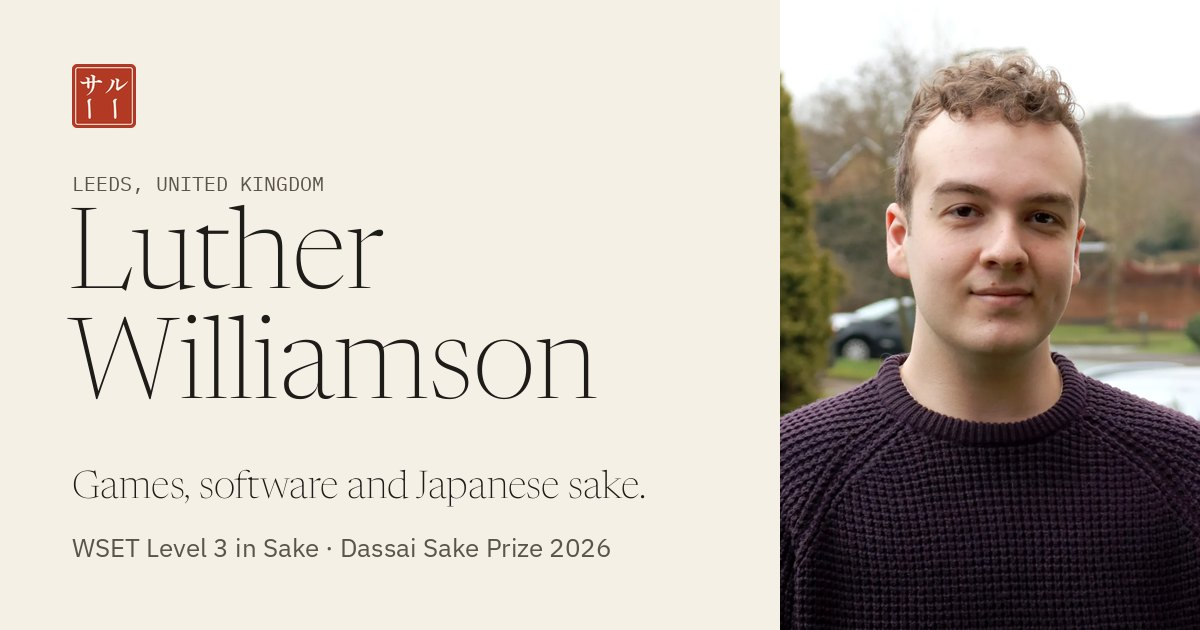
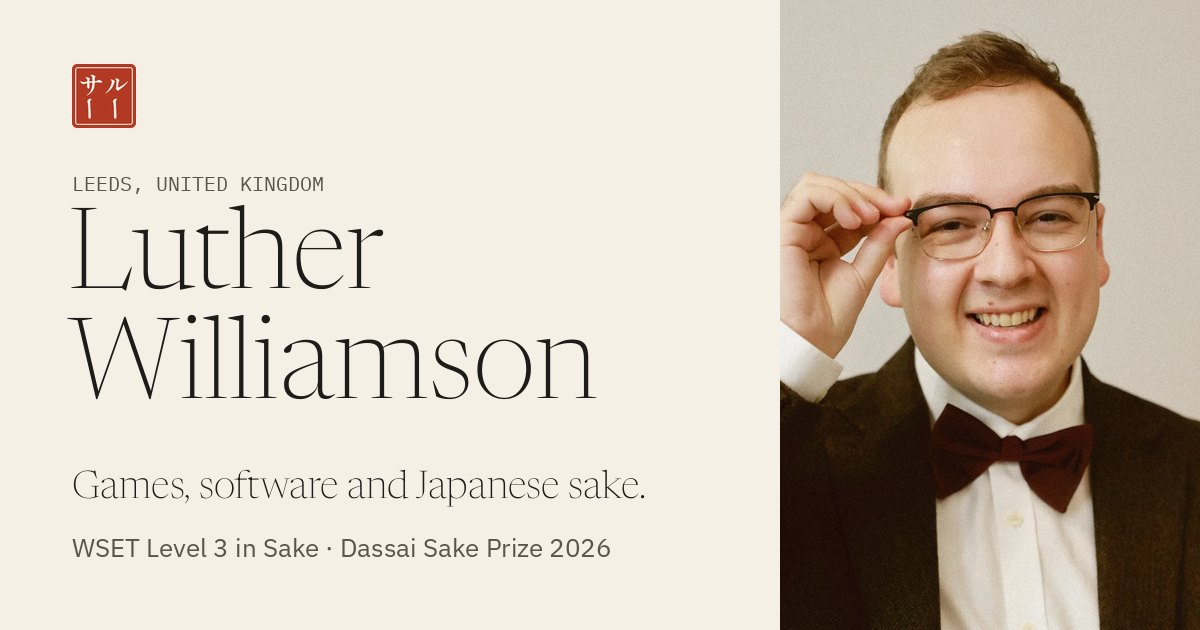
New portrait, homepage rhythm, sticky sake contents bar, dark games header
- New hero portrait; the earlier portrait moves to the About section.
- Homepage order is now sake band, About, games band, then a light
  contact section, so dark and light sections alternate.
- Sake page: the "on this page" bar sticks under the header, marks the
  section in view, and scrolls sideways on phones.
- Games page: header joins the indigo theme; own link-preview image.
- Home link-preview image regenerated with the new portrait.

Changed region(s): [[0.6475, 0.0, 1.0, 1.0]]

diff --git a/index.html b/index.html
@@ -95,7 +95,7 @@
             <img src="/assets/img/home/portrait-800.webp"
                  srcset="/assets/img/home/portrait-480.webp 480w, /assets/img/home/portrait-800.webp 800w, /assets/img/home/portrait-1200.webp 1200w"
                  sizes="(min-width: 900px) 28vw, (min-width: 480px) 22rem, 88vw"
-                 width="800" height="999" alt="Portrait of Luther Williamson outdoors, wearing a dark knitted jumper." fetchpriority="high">
+                 width="800" height="1000" alt="Portrait of Luther Williamson smiling and adjusting his glasses, wearing a tweed jacket and a burgundy bow tie." fetchpriority="high">
           </div>
         </div>
         <a class="hero__inset mat" href="/sake/" aria-label="Japanese sake section">
@@ -148,33 +148,6 @@
       </div>
     </section>
 
-    <!-- Games feature -->
-    <section class="games games-teaser" id="games" aria-labelledby="games-title">
-      <div class="wrap grid">
-        <div class="teaser__text">
-          <p class="sec-num reveal"><span>Games</span></p>
-          <h2 id="games-title" class="reveal">Games, 3D and software.</h2>
-          <p class="lede">Since late 2023 I’ve worked independently, as an indie game developer and a freelance 3D modeller for product design.</p>
-          <div class="feature__links">
-            <a class="btn btn--koji" href="/games/">See my games <span class="arrow" aria-hidden="true">→</span></a>
-          </div>
-          <ul class="feature__index" aria-label="On the games page">
-            <li><a href="/games/#death-with-dice"><span>Death with Dice</span><span class="mono">Upcoming</span></a></li>
-            <li><a href="/games/#hive-mind"><span>Hive Mind</span><span class="mono">2027</span></a></li>
-            <li><a href="/games/#offbeat"><span>Offbeat</span><span class="mono">Game jam</span></a></li>
-            <li><a href="/games/#youtube"><span>YouTube</span><span class="mono">Tutorials</span></a></li>
-          </ul>
-        </div>
-        <a class="teaser__media mat" href="/games/" aria-label="Games page">
-          <span class="ratio ratio--16x9">
-            <img src="/assets/img/work/polygon-dungeon-800.webp"
-                 srcset="/assets/img/work/polygon-dungeon-800.webp 800w, /assets/img/work/polygon-dungeon-1600.webp 1600w"
-                 sizes="(min-width: 900px) 50vw, 92vw" width="1600" height="900" loading="lazy" alt="">
-          </span>
-        </a>
-      </div>
-    </section>
-
     <!-- About -->
     <section class="section wrap" id="about" aria-labelledby="about-title">
       <div class="grid">
@@ -187,6 +160,16 @@
             <p>Alongside that, Japanese sake has become a serious pursuit. I hold the WSET Level 3 Award in Sake, won the Dassai Sake Prize, and have taught sake classes and led tastings in the UK. More on the <a href="/sake/">sake page</a>.</p>
           </div>
           <p class="about__cv small muted"><a class="link" href="/assets/docs/CV%20-%20Luther%20Williamson.docx" download>Download CV</a> (Word document, last updated 2024)</p>
+          <figure class="about__photo">
+            <div class="mat">
+              <div class="ratio ratio--4x5">
+                <img src="/assets/img/home/portrait-about-480.webp"
+                     srcset="/assets/img/home/portrait-about-480.webp 480w, /assets/img/home/portrait-about-800.webp 800w"
+                     sizes="(min-width: 900px) 18vw, 14rem" width="800" height="999" loading="lazy"
+                     alt="Luther Williamson outdoors, wearing a dark knitted jumper.">
+              </div>
+            </div>
+          </figure>
         </div>
 
         <div class="about__timeline">
@@ -229,8 +212,35 @@
       </div>
     </section>
 
+    <!-- Games feature -->
+    <section class="games games-teaser" id="games" aria-labelledby="games-title">
+      <div class="wrap grid">
+        <div class="teaser__text">
+          <p class="sec-num reveal"><span>Games</span></p>
+          <h2 id="games-title" class="reveal">Games, 3D and software.</h2>
+          <p class="lede">Since late 2023 I’ve worked independently, as an indie game developer and a freelance 3D modeller for product design.</p>
+          <div class="feature__links">
+            <a class="btn btn--koji" href="/games/">See my games <span class="arrow" aria-hidden="true">→</span></a>
+          </div>
+          <ul class="feature__index" aria-label="On the games page">
+            <li><a href="/games/#death-with-dice"><span>Death with Dice</span><span class="mono">Upcoming</span></a></li>
+            <li><a href="/games/#hive-mind"><span>Hive Mind</span><span class="mono">2027</span></a></li>
+            <li><a href="/games/#offbeat"><span>Offbeat</span><span class="mono">Game jam</span></a></li>
+            <li><a href="/games/#youtube"><span>YouTube</span><span class="mono">Tutorials</span></a></li>
+          </ul>
+        </div>
+        <a class="teaser__media mat" href="/games/" aria-label="Games page">
+          <span class="ratio ratio--16x9">
+            <img src="/assets/img/work/polygon-dungeon-800.webp"
+                 srcset="/assets/img/work/polygon-dungeon-800.webp 800w, /assets/img/work/polygon-dungeon-1600.webp 1600w"
+                 sizes="(min-width: 900px) 50vw, 92vw" width="1600" height="900" loading="lazy" alt="">
+          </span>
+        </a>
+      </div>
+    </section>
+
     <!-- Contact -->
-    <section class="contact" id="contact" aria-labelledby="contact-title">
+    <section class="contact contact--light" id="contact" aria-labelledby="contact-title">
       <div class="wrap grid">
         <div class="contact__head">
           <p class="sec-num reveal"><span>Contact</span></p>

diff --git a/assets/css/site.css b/assets/css/site.css
@@ -221,6 +221,24 @@ h1 em, h2 em, h3 em { font-style: italic; font-weight: 330; }
   .no-js .site-nav ul, html:not(.js) .site-nav ul { flex-direction: row; flex-wrap: wrap; gap: 1rem; }
 }
 
+/* Games page: the header joins the indigo theme */
+.page-games .site-header { background: rgba(24, 32, 45, .95); }
+@supports (backdrop-filter: blur(8px)) { .page-games .site-header { background: rgba(24, 32, 45, .84); } }
+.page-games .site-header.is-scrolled { border-bottom-color: rgba(245, 240, 230, .14); }
+.page-games .site-header:has(.site-nav.is-open) { background: #18202D; border-bottom-color: rgba(245, 240, 230, .14); }
+.page-games .brand__name, .page-games .site-nav a { color: var(--paper); }
+.page-games .site-nav a[aria-current] { color: var(--koji); }
+.page-games .site-nav a::before { background: var(--koji); }
+.page-games .site-nav .nav-contact { border-color: rgba(245, 240, 230, .7); }
+.page-games .site-nav .nav-contact:hover { background: var(--paper); color: var(--ink); }
+.page-games .nav-toggle { color: var(--paper); border-color: rgba(245, 240, 230, .7); }
+.page-games .site-nav li { border-top-color: rgba(245, 240, 230, .14); }
+.page-games :focus-visible { outline-color: var(--koji); }
+@media (max-width: 759px) {
+  .page-games .site-nav .nav-contact { border: 0; }
+  .page-games .site-nav .nav-contact:hover { background: none; color: var(--koji); }
+}
+
 /* 7. Buttons & links ------------------------------------------------------ */
 .btn {
   display: inline-flex; align-items: center; gap: .75rem;
@@ -524,6 +542,7 @@ figcaption .mono, .caption .mono { flex: none; color: var(--shu); font-size: .7r
 .about__text { grid-column: 1 / span 5; }
 .about__text .prose { margin-top: 1.75rem; }
 .about__cv { margin-top: 2rem; }
+.about__photo { margin: 2.5rem 0 0; max-width: 15rem; }
 .about__timeline { grid-column: 7 / span 6; }
 @media (max-width: 899px) { .about__timeline { margin-top: 3.5rem; } }
 .timeline + .timeline { margin-top: 3rem; }
@@ -551,14 +570,18 @@ figcaption .mono, .caption .mono { flex: none; color: var(--shu); font-size: .7r
   .sake-hero__figure .tate { display: none; }
 }
 
-.chapters { border-block: 1px solid var(--ink); }
-.chapters ol { display: flex; flex-wrap: wrap; list-style: none; padding: 0; margin: 0; }
-.chapters li { flex: 1 1 auto; }
-.chapters a { display: flex; gap: .7rem; align-items: baseline; padding: 1rem 1.25rem 1rem 0; text-decoration: none; font-size: .95rem; white-space: nowrap; }
-.chapters a .mono { color: var(--shu); font-size: .68rem; }
-.chapters a:hover { color: var(--shu); }
-@media (max-width: 759px) {
-  .chapters ol { display: grid; grid-template-columns: 1fr 1fr; }
+.chapters {
+  position: sticky; top: var(--header-h); z-index: 40;
+  border-block: 1px solid var(--ink); background: rgba(245, 240, 230, .96);
+}
+.chapters ol { display: flex; list-style: none; padding: 0; margin: 0; overflow-x: auto; scrollbar-width: none; }
+.chapters ol::-webkit-scrollbar { display: none; }
+.chapters li { flex: 1 0 auto; }
+.chapters a { position: relative; display: flex; align-items: baseline; padding: .85rem 1.25rem .85rem 0; text-decoration: none; font-size: .95rem; white-space: nowrap; }
+.chapters a:hover, .chapters a[aria-current] { color: var(--shu); }
+.chapters a::after { content: ""; position: absolute; left: 0; right: 1.25rem; bottom: -1px; height: 2px; background: var(--shu); transform: scaleX(0); transform-origin: left; transition: transform .25s ease; }
+.chapters a[aria-current]::after { transform: scaleX(1); }
+html:has(.chapters) { scroll-padding-top: calc(var(--header-h) + 4.25rem); }
   .chapters li { border-bottom: 1px solid var(--rule); }
   .chapters li:nth-last-child(-n+2) { border-bottom: 0; }
 }
@@ -706,6 +729,17 @@ figcaption .mono, .caption .mono { flex: none; color: var(--shu); font-size: .7r
 .contact__list .val { font-family: var(--serif); font-size: clamp(1.15rem, 2vw, 1.55rem); overflow-wrap: anywhere; }
 .contact__list a:hover .val { color: var(--shu-light); }
 @media (max-width: 479px) { .contact__list a { grid-template-columns: 1fr auto; } .contact__list .mono { grid-column: 1 / -1; } }
+
+/* Light variant (homepage, where it follows the dark games band) */
+.contact--light { background: var(--paper); color: var(--ink); }
+.contact--light h2 { color: var(--ink); }
+.contact--light .sec-num { color: var(--ink-soft); }
+.contact--light .sec-num span:first-child { color: var(--shu); }
+.contact--light .contact__head p { color: var(--ink-soft); }
+.contact--light .contact__list { border-top-color: var(--ink); }
+.contact--light .contact__list a { color: var(--ink); border-bottom-color: var(--rule); }
+.contact--light .contact__list .mono { color: var(--ink-soft); }
+.contact--light .contact__list a:hover .val { color: var(--shu); }
 
 .site-footer { background: var(--ai); color: #AEB6C2; border-top: 1px solid rgba(245,240,230,.15); }
 .site-footer__inner { display: flex; flex-wrap: wrap; justify-content: space-between; align-items: center; gap: 1rem 2rem; padding-block: 1.75rem; font-size: .85rem; }

diff --git a/assets/js/site.js b/assets/js/site.js
@@ -62,6 +62,36 @@
   window.addEventListener("hashchange", openTarget);
   openTarget();
 
+  // "On this page" bar: mark the section in view and keep its link visible
+  var bar = document.querySelector(".chapters ol");
+  if (bar) {
+    var spy = [];
+    Array.prototype.forEach.call(bar.querySelectorAll('a[href^="#"]'), function (a) {
+      var target = document.getElementById(a.getAttribute("href").slice(1));
+      if (target) spy.push({ link: a, target: target });
+    });
+    var active = null, ticking = false;
+    var update = function () {
+      ticking = false;
+      var line = window.innerHeight * 0.4, current = null;
+      spy.forEach(function (s) { if (s.target.getBoundingClientRect().top <= line) current = s; });
+      if (window.innerHeight + window.scrollY >= document.documentElement.scrollHeight - 2) current = spy[spy.length - 1];
+      if (current === active) return;
+      active = current;
+      spy.forEach(function (s) {
+        if (s === current) s.link.setAttribute("aria-current", "location");
+        else s.link.removeAttribute("aria-current");
+      });
+      if (current && bar.scrollWidth > bar.clientWidth) {
+        bar.scrollTo({ left: current.link.offsetLeft - bar.offsetLeft - 16, behavior: "smooth" });
+      }
+    };
+    var request = function () { if (!ticking) { ticking = true; requestAnimationFrame(update); } };
+    window.addEventListener("scroll", request, { passive: true });
+    window.addEventListener("resize", request);
+    update();
+  }
+
   // Enlarge images in a native <dialog>; links still open the image without JS
   var links = document.querySelectorAll("a[data-zoom]");
   if (links.length && typeof HTMLDialogElement === "function") {

diff --git a/games/index.html b/games/index.html
@@ -6,7 +6,7 @@
   <title>Games, 3D and software — Luther Williamson</title>
   <meta name="description" content="Games, 3D modelling and software by Luther Williamson, an indie game developer and freelance 3D modeller in Leeds: Polygon Dungeon, Hungry Bunny, Enchanted Forest and more.">
   <link rel="canonical" href="https://lutherwilliamson.co.uk/games/">
-  <meta name="theme-color" content="#F5F0E6">
+  <meta name="theme-color" content="#18202D">
   <meta name="author" content="Luther Williamson">
 
   <meta property="og:type" content="website">
@@ -14,10 +14,10 @@
   <meta property="og:title" content="Games, 3D and software — Luther Williamson">
   <meta property="og:description" content="Indie games, freelance 3D modelling for product design, and software engineering.">
   <meta property="og:url" content="https://lutherwilliamson.co.uk/games/">
-  <meta property="og:image" content="https://lutherwilliamson.co.uk/assets/img/og/home.jpg">
+  <meta property="og:image" content="https://lutherwilliamson.co.uk/assets/img/og/games.jpg">
   <meta property="og:image:width" content="1200">
   <meta property="og:image:height" content="630">
-  <meta property="og:image:alt" content="Luther Williamson — games, software and Japanese sake">
+  <meta property="og:image:alt" content="Games, 3D and software by Luther Williamson, with a screenshot of the rhythm game Offbeat">
   <meta property="og:locale" content="en_GB">
   <meta name="twitter:card" content="summary_large_image">
 

diff --git a/CREDITS.md b/CREDITS.md
@@ -32,7 +32,7 @@ The licence texts are in `assets/fonts/OFL-*.txt`.
 | `assets/img/brand/seal.svg`, `assets/favicon.svg`, `assets/favicon.ico`, `assets/apple-touch-icon.png` | Drawn for this site. The ルーサー glyph outlines come from Shippori Mincho B1 Bold (OFL 1.1, which allows embedding glyph outlines in artwork). | © Luther Williamson |
 | `assets/img/brand/rings.svg` | Drawn for this site | © Luther Williamson |
 | `assets/img/brand/lowpoly.svg` | Generated for this site (low-poly wireframe background for the Games section) | © Luther Williamson |
-| `assets/img/og/home.jpg`, `assets/img/og/sake.jpg` | Composed for this site from the photographs below and the fonts above | © Luther Williamson |
+| `assets/img/og/home.jpg`, `assets/img/og/sake.jpg`, `assets/img/og/games.jpg` | Composed for this site from the photographs below and the fonts above | © Luther Williamson |
 
 ## Photographs
 
@@ -40,7 +40,8 @@ All photographs were supplied by Luther Williamson, who has confirmed he has per
 
 | Published file(s) | Original file | Subject | Photographer / source | Permission |
 |---|---|---|---|---|
-| `img/home/portrait-*` | `person.jpg` (previous site) | Portrait of Luther | Supplied by Luther | Owner |
+| `img/home/portrait-*` | Portrait supplied Nov 2026 | Portrait of Luther (homepage hero) | Supplied by Luther | Owner |
+| `img/home/portrait-about-*` | `person.jpg` (previous site) | Earlier portrait of Luther (About section) | Supplied by Luther | Owner |
 | `img/home/sake-bar-*` | `20260606_210618.jpg` | Bottles and cups on a bar, June 2026 | Luther Williamson | Owner |
 | `img/sake/hero-bottle-*` | `20260606_211106.jpg` | Single bottle, June 2026 | Luther Williamson | Owner |
 | `img/sake/wset-class-*` | `20250522_133500.jpg` | WSET tasting flight, May 2025 | Luther Williamson | Owner |
